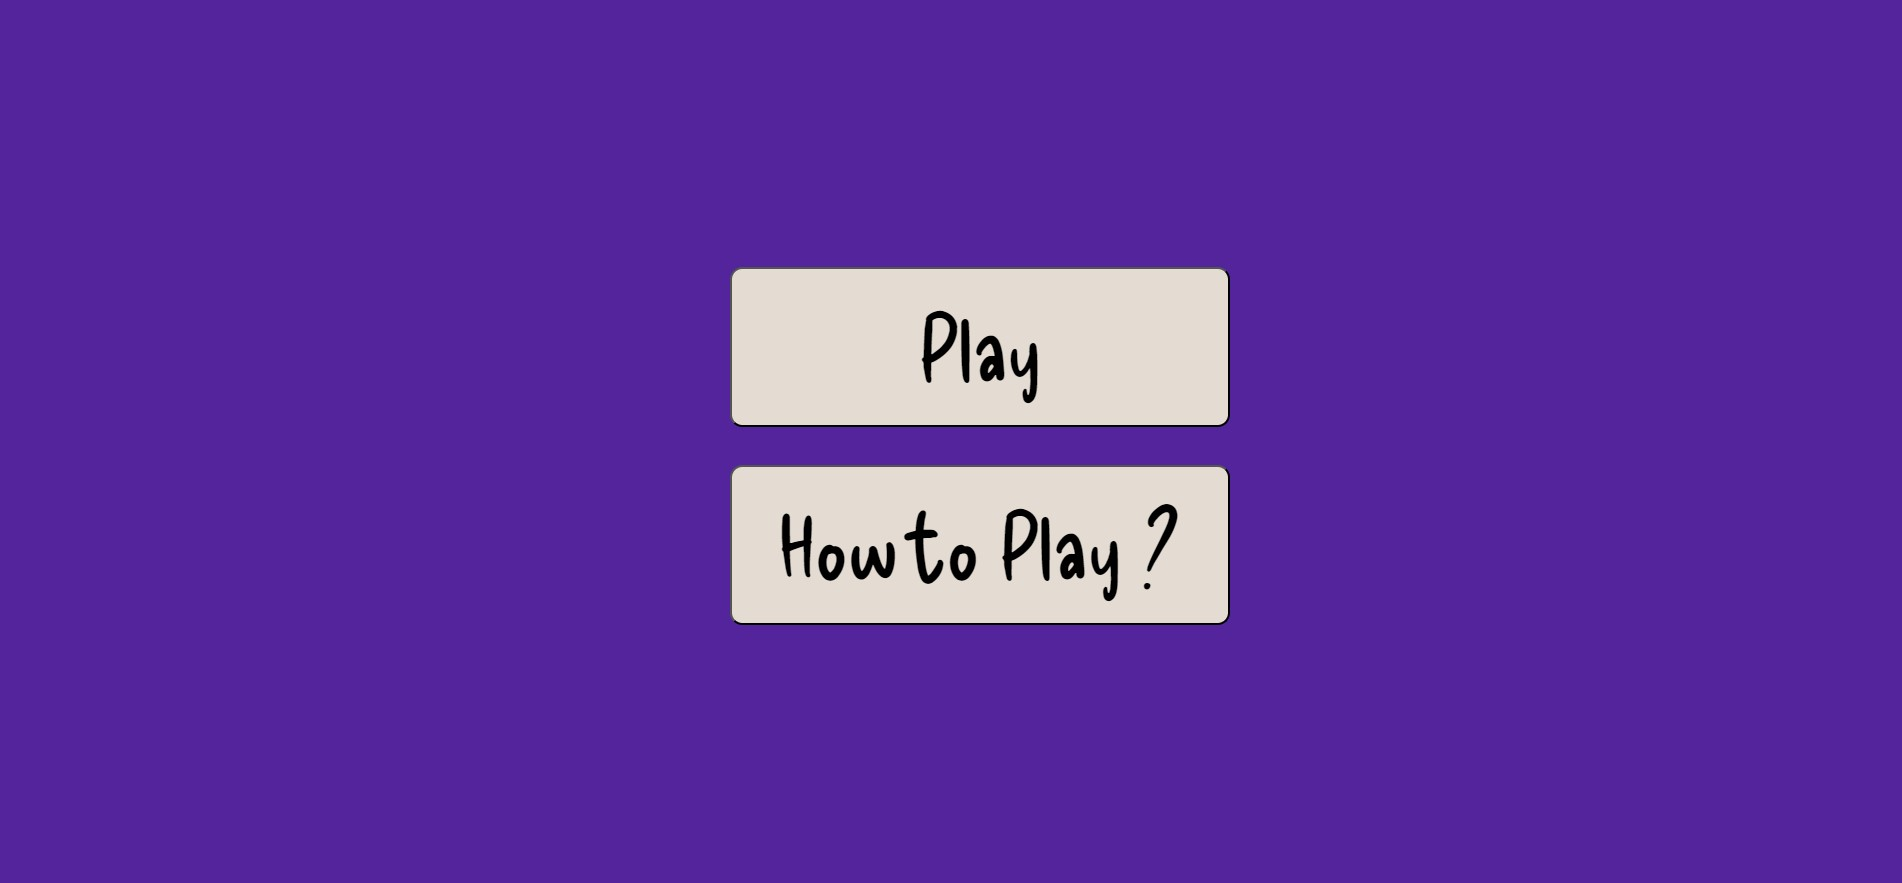
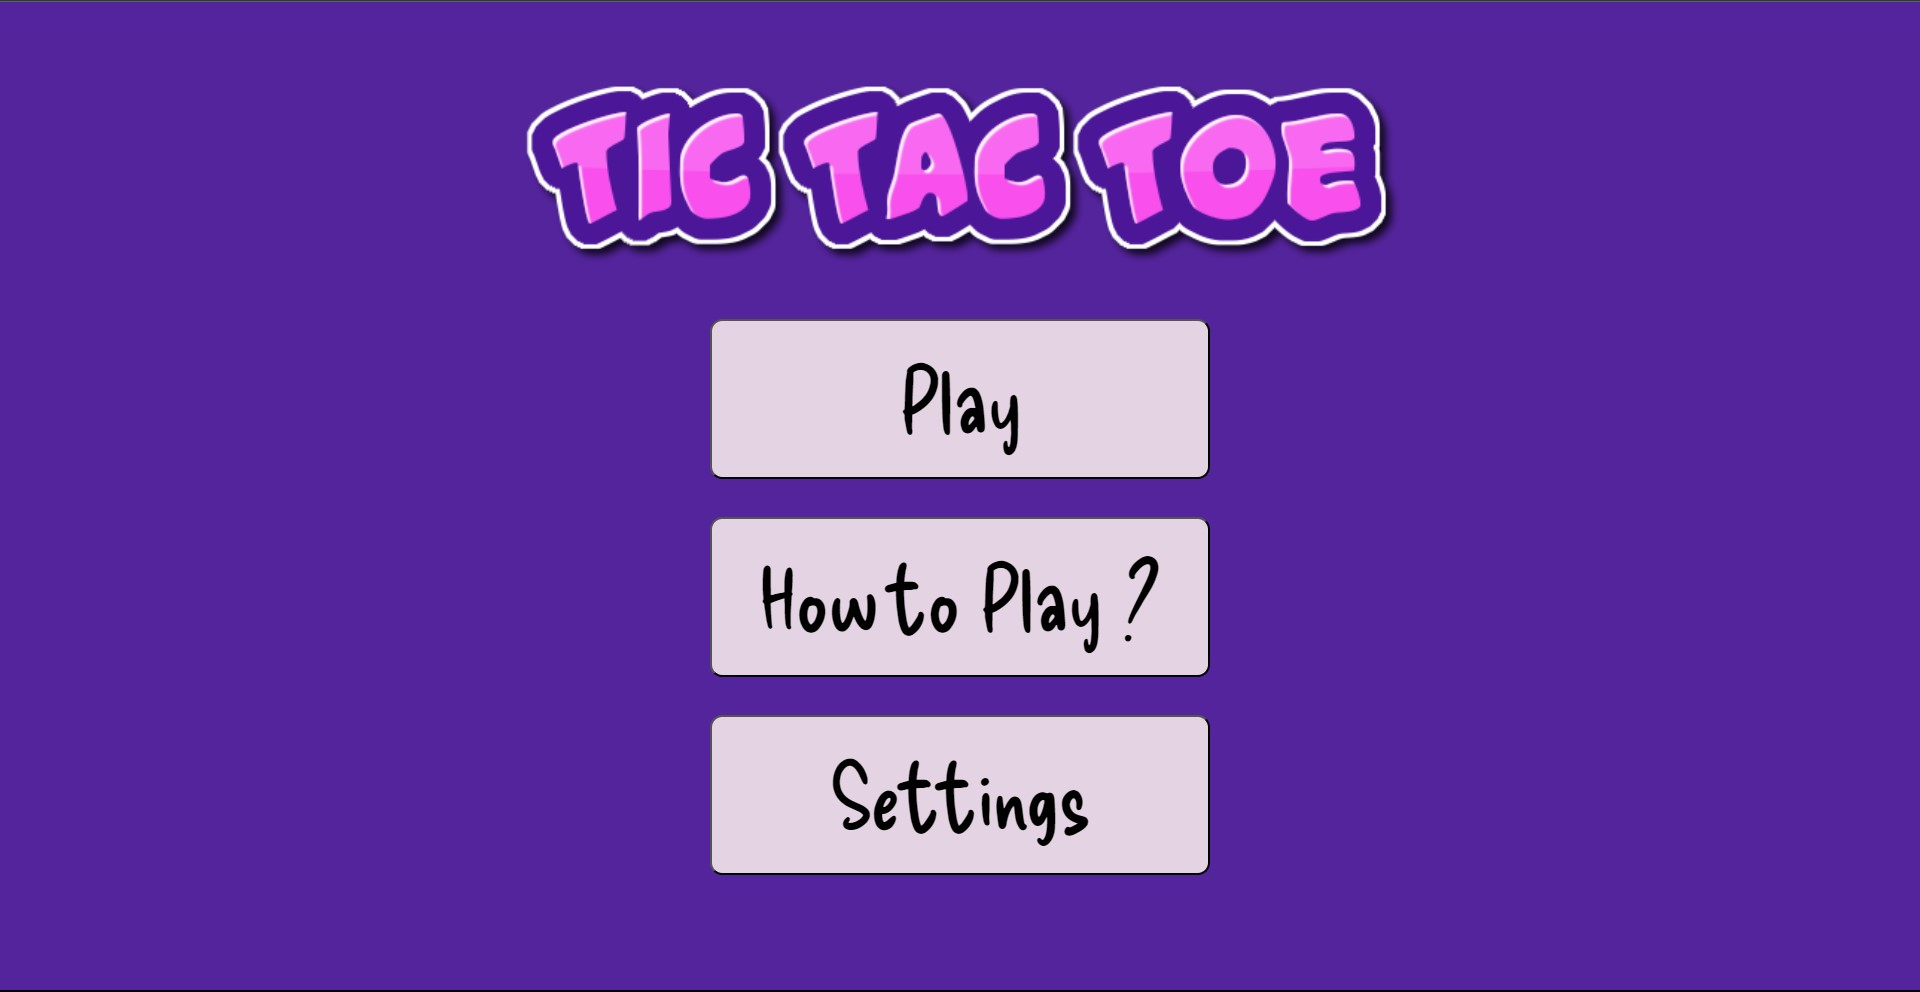
Landing Page UI changed

Changed region(s): [[0.2482, 0.0612, 0.7445, 0.4892], [0.3722, 0.5198, 0.6514, 0.8867], [0.0, 0.9785, 1.0, 1.0]]

diff --git a/Codebase/src/Game/Game.jsx b/Codebase/src/Game/Game.jsx
@@ -1,5 +1,5 @@
 import { useState,useRef } from 'react';
-import swal from 'sweetalert';  
+import swal from 'sweetalert2';  
 import { MdDarkMode,MdOutlineLightMode } from 'react-icons/md'
 import './Game.css'
 import { useStates } from '../States';
@@ -41,39 +41,39 @@ function Game(){
 
     const checkWinner = () => {
         if (gridvalue[0]===gridvalue[4]  && gridvalue[4]!==""&& gridvalue[4]===gridvalue[8] && gridvalue[4]!==""){
-        swal("",`Player ${gridvalue[0]} wins`,"success")
+        swal.fire("",`Player ${gridvalue[0]} wins`,"success")
         .then((value) => { resetgridvalue() });}
 
         else if(gridvalue[0]===gridvalue[1] && gridvalue[1]===gridvalue[2] && gridvalue[1]!==""){
-        swal("",`Player ${gridvalue[0]} wins`,"success")
+        swal.fire("",`Player ${gridvalue[0]} wins`,"success")
         .then((value) => { resetgridvalue() });}
 
         else if(gridvalue[3]===gridvalue[4] && gridvalue[4]===gridvalue[5] && gridvalue[4]!==""){
-        swal("",`Player ${gridvalue[4]} wins`,"success")
+        swal.fire("",`Player ${gridvalue[4]} wins`,"success")
         .then((value) => { resetgridvalue() });}
 
         else if(gridvalue[6]===gridvalue[7] && gridvalue[7]===gridvalue[8] && gridvalue[7]!==""){
-        swal("",`Player ${gridvalue[6]} wins`,"success")
+        swal.fire("",`Player ${gridvalue[6]} wins`,"success")
         .then((value) => { resetgridvalue() });}
 
         else if(gridvalue[0]===gridvalue[3] && gridvalue[3]===gridvalue[6] && gridvalue[3]!==""){
-        swal("",`Player ${gridvalue[0]} wins`,"success")
+        swal.fire("",`Player ${gridvalue[0]} wins`,"success")
         .then((value) => { resetgridvalue() });}
 
         else if(gridvalue[1]===gridvalue[4] && gridvalue[4]===gridvalue[7] && gridvalue[4]!==""){
-        swal("",`Player ${gridvalue[1]} wins`,"success")
+        swal.fire("",`Player ${gridvalue[1]} wins`,"success")
         .then((value) => { resetgridvalue() });}
 
         else if(gridvalue[2]===gridvalue[5] && gridvalue[5]===gridvalue[8] && gridvalue[5]!==""){
-        swal("",`Player ${gridvalue[5]} wins`,"success")
+        swal.fire("",`Player ${gridvalue[5]} wins`,"success")
         .then((value) => { resetgridvalue() });}
 
         else if(gridvalue[2]===gridvalue[4] && gridvalue[4]===gridvalue[6] && gridvalue[4]!==""){
-        swal("",`Player ${gridvalue[6]} wins`,"success")
+        swal.fire("",`Player ${gridvalue[6]} wins`,"success")
         .then((value) => { resetgridvalue() });}
 
         else if(all===9){
-        swal("","Draw Match","success")
+        swal.fire("","Draw Match","success")
         .then((value) => { resetgridvalue() });}
 
     }

diff --git a/Codebase/src/Start/Start.css b/Codebase/src/Start/Start.css
@@ -1,31 +1,50 @@
 @import url('https://fonts.googleapis.com/css2?family=Delicious+Handrawn&display=swap');
 
+.logo-img{
+    height: 200px;
+    position: absolute;
+    top: 4%;
+    left: 27%;
+}
 .play-btn
 {
     position: absolute;
-    top: 28%;
-    left: 38%;
+    top: 32%;
+    left: 37%;
     font-size: 70px;
     font-family: 'Delicious Handrawn', cursive;
     padding: 20px;
     width: 400px;
-    background-color: rgb(228, 220, 211);
+    background-color: rgb(228, 211, 226);
     border-radius: 10px;
     cursor: pointer;
 }
 .how-btn
 {
     position: absolute;
-    top: 48%;
-    left: 38%;
+    top: 52%;
+    left: 37%;
     font-size: 70px;
     font-family: 'Delicious Handrawn', cursive;
     padding: 20px;
     width: 400px;
-    background-color: rgb(228, 220, 211);
+    background-color: rgb(228, 211, 226);
     border-radius: 10px;
     cursor: pointer;
 }
-.play-btn:hover, .how-btn:hover{
+.Settings-btn
+{
+    position: absolute;
+    top: 72%;
+    left: 37%;
+    font-size: 70px;
+    font-family: 'Delicious Handrawn', cursive;
+    padding: 20px;
+    width: 400px;
+    background-color: rgb(228, 211, 226);
+    border-radius: 10px;
+    cursor: pointer;
+}
+.play-btn:hover, .how-btn:hover, .Settings-btn:hover{
     transform: scale(1.01);
 }

diff --git a/Codebase/src/Start/Start.jsx b/Codebase/src/Start/Start.jsx
@@ -3,10 +3,15 @@ import './Start.css';
 import { useStates } from '../States';
 
 function Start() {
-    const{ background,goto } = useStates();
+    const{ goto } = useStates();
     return(
         <>
-        <div className={background}>
+        <div className="darkbg">
+
+            <div className='logo-div'>
+                <img className='logo-img' alt=''
+                src='https://res.cloudinary.com/dnq6fx1oj/image/upload/v1679934258/coollogo_com-4249444_mviuhw.png'></img>
+            </div>
 
             <div className='play-btn-div'>
                 <button className='play-btn' onClick={()=>goto("/game")}>Play</button>
@@ -14,6 +19,10 @@ function Start() {
 
             <div className='how-btn-div'>
                 <button className='how-btn'>How to Play ?</button>
+            </div>
+
+            <div className='Settings-btn-div'>
+                <button className='Settings-btn'>Settings</button>
             </div>
         </div>
         </>

diff --git a/Codebase/src/App.jsx b/Codebase/src/App.jsx
@@ -11,15 +11,6 @@ function App() {
     <States>
       <Routes>
 
-        <Route
-          path='/game'
-          element=
-          {
-            <>
-            <Game/>
-            </>
-          }
-        />
 
         <Route
           path='/'
@@ -30,6 +21,16 @@ function App() {
             </>
           }
           />
+
+        <Route
+          path='/game'
+          element=
+          {
+            <>
+            <Game/>
+            </>
+          }
+        />
 
       </Routes>
     </States>
